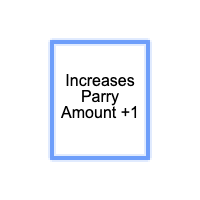
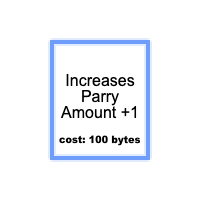
Refined and added indicator of when you have no bytes

Changed region(s): [[0.27, 0.66, 0.72, 0.75]]

diff --git a/Shop.java b/Shop.java
@@ -16,6 +16,7 @@ public class Shop extends World
     private int maxHealth;
     private int shieldLvl = 1;
     private int imageIndex = 0;
+    private int maxHealthUpgrade = 5;
     private double speed = 0.4;
     
     //Handles Animation
@@ -154,31 +155,53 @@ public class Shop extends World
             }
             else
             {
-                System.out.println("Cannot Purchase, money left: " + money);
+                Button noByte = new Button("Buttons/noBytes.png", .25, true);
+                addObject(noByte, 250, 150);
+                noByte.fadeOut();
             }
         }
         
         // If clicked second button it takes money in exchange to replenish health to full
-        if(clickedTwo)
+        else if(clickedTwo)
         {
-            price = 25;
+            price = 50;
             if(money >= price)
             {
                 money -= price;
                 health = maxHealth;
                 removeObject(item2);
                 addObject(new Button("shopIcons/bought.png",.7, true),250,600);
-                System.out.println("purchased, money left: " + money);
-                System.out.println("health fully regain: " + health);
-                //remember to add this to each clicked___ condition
                 purchased = true;
                 SaveFile.setInfo("health", String.valueOf(health));
             }
             else
             {
-                System.out.println("Cannot Purchase, money left: " + money);
+                Button noByte = new Button("Buttons/noBytes.png", .25, true);
+                addObject(noByte, 250, 450);
+                noByte.fadeOut();
             }
         }
+        else if(clickedThree)
+        {
+            price = 20;
+            if(money >= price)
+            {
+                money -= price;
+                maxHealth++;
+                health++;
+                removeObject(item2);
+                addObject(new Button("shopIcons/bought.png",.7, true),250,600);
+                purchased = true;
+                SaveFile.setInfo("health", String.valueOf(health));
+            }
+            else
+            {
+                Button noByte = new Button("Buttons/noBytes.png", .25, true);
+                addObject(noByte, 600, 150);
+                noByte.fadeOut();
+            }
+        }
+        
         
         if(purchased){
             purchased = false;
@@ -257,5 +280,7 @@ public class Shop extends World
             isHoveringImage2 = false;
         }
     }
+    
+    
 }
 

diff --git a/Button.java b/Button.java
@@ -12,6 +12,9 @@ public class Button extends UI
     private boolean isPressed = false;
     private boolean isPressedActor = false;
     private boolean isShopIcon, isReset = false;
+    private boolean isFading = false;
+    private int fadeAmount = 2; 
+    
     private GreenfootImage image;
     private int count = 0;
     private int width, height;
@@ -49,7 +52,10 @@ public class Button extends UI
     
     public void act()
     {
-        if(!isShopIcon)
+        if (isFading) {
+            performFadeOut();
+        }
+        else if(!isShopIcon)
         {
             checkButton();
             if(selfLabel != null){
@@ -121,5 +127,27 @@ public class Button extends UI
         }
         //any unusual edge cases like issues with mouse
         return false;
+    }
+    
+    public void fadeOut() {
+        isFading = true;
+    }
+    
+    public void performFadeOut() {
+        int transparency = getImage().getTransparency(); 
+        if (transparency > 0) {
+            transparency -= fadeAmount; 
+            if (transparency < 0)
+            {
+               transparency = 0; 
+            }
+            // Updates transparency
+            getImage().setTransparency(transparency); 
+        } else {
+            // When fully transparent, remove the button from the world
+            if (getWorld() != null) {
+                getWorld().removeObject(this);
+            }
+        }
     }
 }
